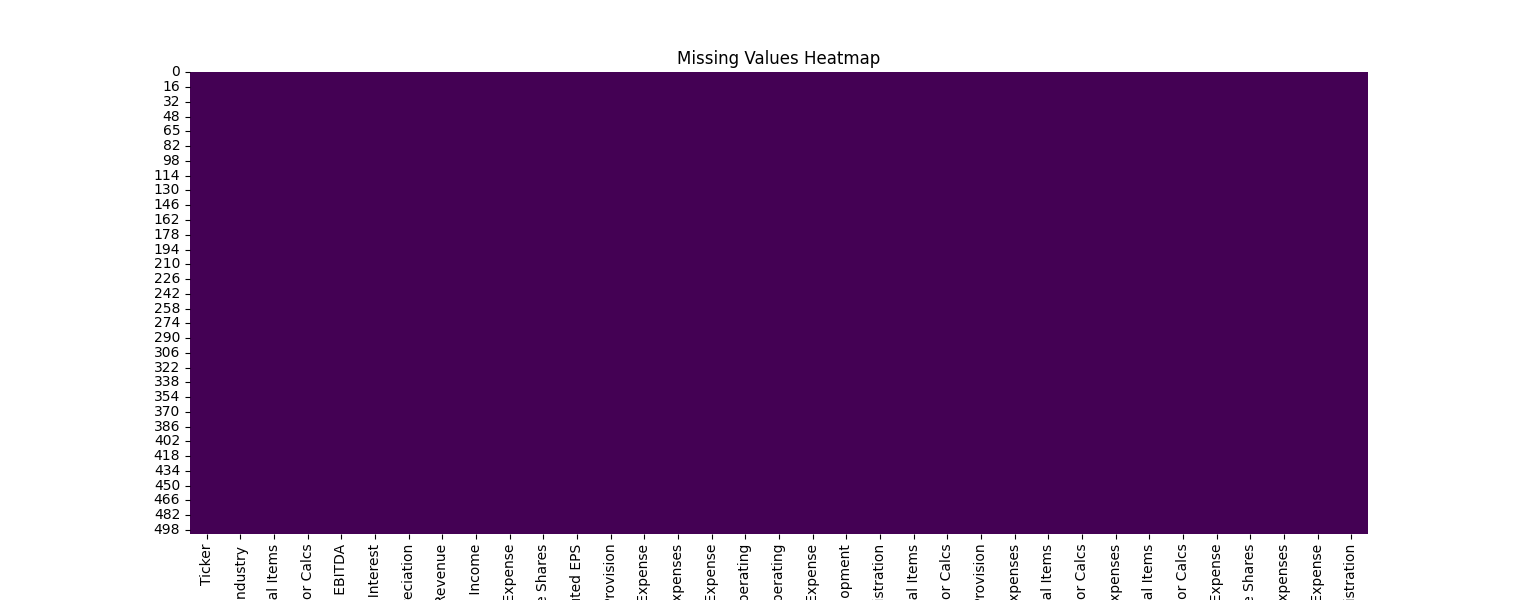
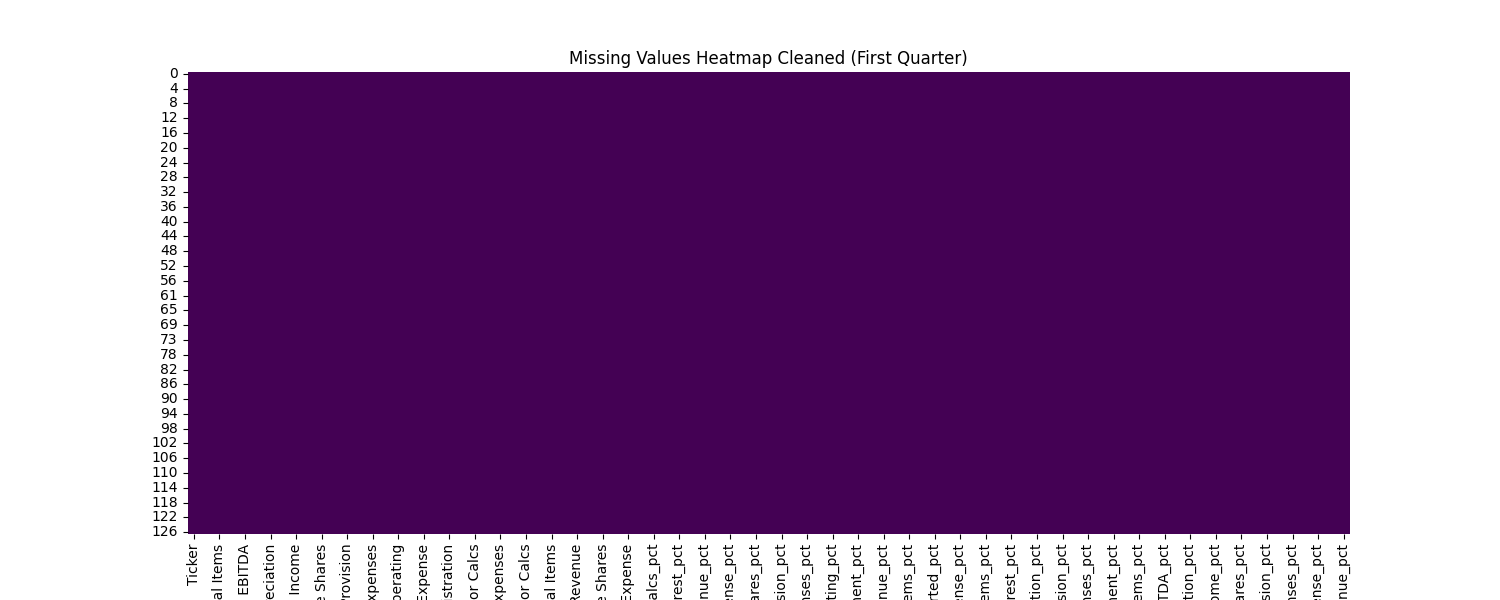
Small changes

Changed region(s): [[0.1227, 0.9, 0.92, 1.0], [0.092, 0.12, 0.1227, 0.9], [0.368, 0.09, 0.644, 0.12]]

diff --git a/data_analysis.py b/data_analysis.py
@@ -115,8 +115,8 @@ for expectation in [expectation1, expectation2, expectation3, expectation4, expe
 # Missing Values Heatmap
 print(financials_df.info(), "\n")
 plt.figure(figsize=(15, 6))
-sns.heatmap(financials_df.isnull(), cbar=False, cmap='viridis')
-plt.title("Missing Values Heatmap Not Cleaned")
+sns.heatmap(financials_df.iloc[:len(financials_df)//4].isnull(), cbar=False, cmap='viridis')
+plt.title("Missing Values Heatmap Not Cleaned (First Quarter)")
 plt.show()
 
 # Drop rows with 30% or more missing values
@@ -239,8 +239,8 @@ for expectation in [expectation1, expectation2, expectation3, expectation4, expe
 # Missing Values Heatmap
 print(financials_df.info(), "\n")
 plt.figure(figsize=(15, 6))
-sns.heatmap(financials_df.isnull(), cbar=False, cmap='viridis')
-plt.title("Missing Values Heatmap")
+sns.heatmap(financials_df.iloc[:len(financials_df)//4].isnull(), cbar=False, cmap='viridis')
+plt.title("Missing Values Heatmap Cleaned (First Quarter)")
 plt.show()
 
 # Industry Frequency Bar Plot
@@ -270,7 +270,8 @@ plt.show()
 
 # Correlation Matrix Heatmap
 plt.figure(figsize=(14, 10))
-correlation_matrix = financials_df.corr(numeric_only=True)
+financials_df_no_pct = financials_df.loc[:, ~financials_df.columns.str.endswith('_pct')]  # excluding _pct columns
+correlation_matrix = financials_df_no_pct.corr(numeric_only=True)
 sns.heatmap(correlation_matrix, annot=True, fmt=".2f", cmap="coolwarm", linewidths=0.5, vmin=-1, vmax=1)
 plt.title("Correlation Matrix of Financial Metrics", fontsize=14, fontweight="bold")
 plt.xticks(ha="right", fontsize=5)

diff --git a/clustering.py b/clustering.py
@@ -3,8 +3,6 @@ import numpy as np
 from sklearn.cluster import KMeans
 from sklearn.preprocessing import StandardScaler
 import matplotlib.pyplot as plt
-from mpl_toolkits.mplot3d import Axes3D
-import seaborn as sns
 from sklearn.decomposition import TruncatedSVD
 
 class StockClusterer:
